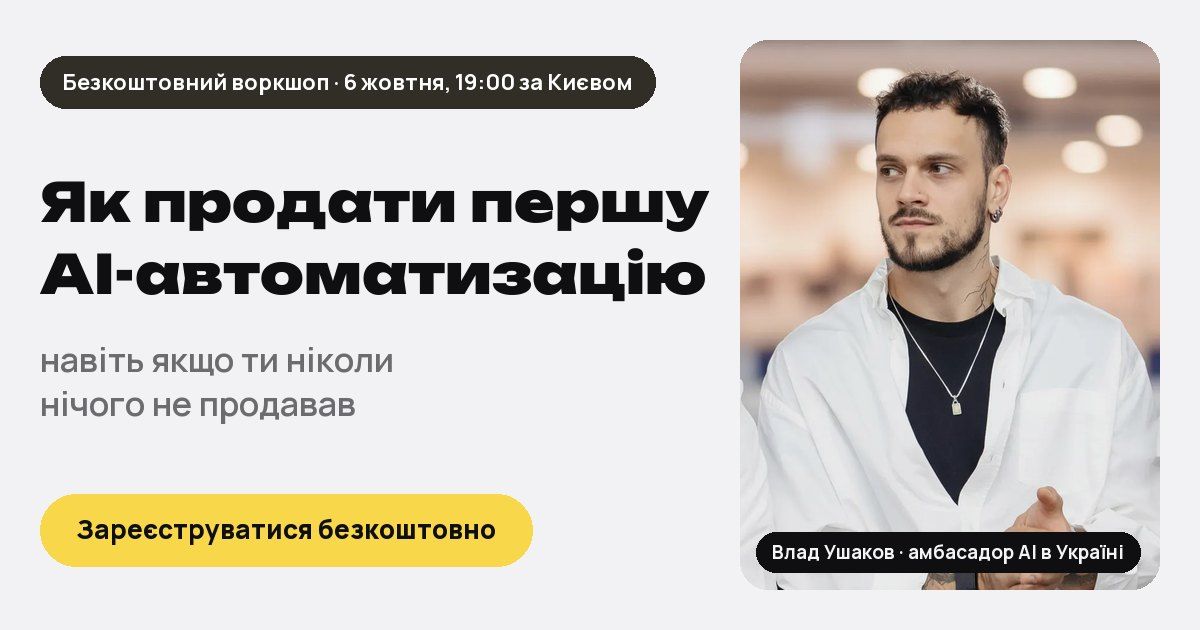
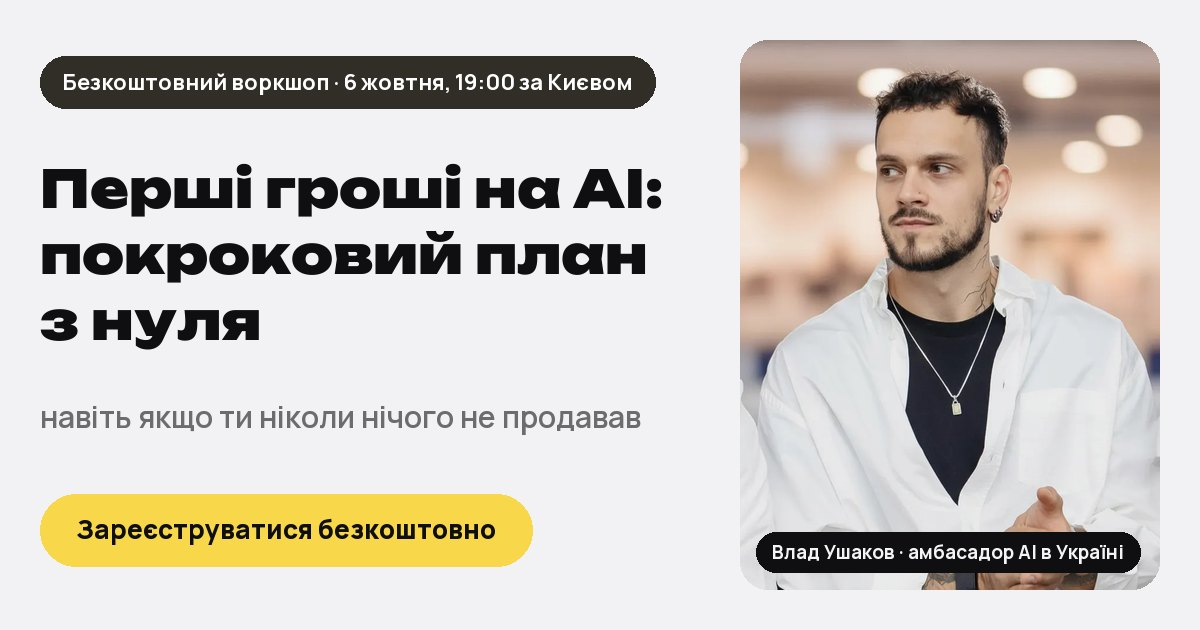
Воркшоп: новий заголовок і блок «Для кого»
Заголовок «Перші гроші на AI: покроковий план з нуля» на першому екрані,
у title, og:title і og.jpg (og:image ?v=3). «Для кого» — три нові картки
з іконками, на десктопі в один ряд.

Changed region(s): [[0.0308, 0.2413, 0.5858, 0.6032], [0.0308, 0.6333, 0.555, 0.6937]]

diff --git a/workshop/index.html b/workshop/index.html
@@ -3,16 +3,16 @@
 <head>
   <meta charset="utf-8">
   <meta name="viewport" content="width=device-width, initial-scale=1, viewport-fit=cover">
-  <title>Як продати першу AI-автоматизацію — безкоштовний воркшоп</title>
+  <title>Перші гроші на AI: покроковий план з нуля — безкоштовний воркшоп</title>
   <meta name="description" content="6 жовтня. Наживо з нуля зберу AI-аналіз дзвінків і розкажу, як мій учень продав його за 600$ без досвіду продажів.">
   <meta name="theme-color" content="#f2f2f4">
 
   <meta property="og:type" content="website">
   <meta property="og:locale" content="uk_UA">
   <meta property="og:site_name" content="AI LAB">
-  <meta property="og:title" content="Як продати першу AI-автоматизацію - безкоштовний воркшоп">
+  <meta property="og:title" content="Перші гроші на AI: покроковий план з нуля - безкоштовний воркшоп">
   <meta property="og:description" content="6 жовтня. Наживо з нуля зберу AI-аналіз дзвінків і розкажу, як мій учень продав його за 600$ без досвіду продажів.">
-  <meta property="og:image" content="https://www.ai-lab.com.ua/workshop/img/og.jpg?v=2">
+  <meta property="og:image" content="https://www.ai-lab.com.ua/workshop/img/og.jpg?v=3">
   <meta property="og:image:width" content="1200">
   <meta property="og:image:height" content="630">
   <meta name="twitter:card" content="summary_large_image">
@@ -22,8 +22,8 @@
   <link rel="preload" as="font" type="font/woff2" href="fonts/unbounded-cyrillic.woff2" crossorigin>
   <link rel="preload" as="font" type="font/woff2" href="fonts/manrope-cyrillic.woff2" crossorigin>
   <script>document.documentElement.classList.add('js');</script>
-  <link rel="stylesheet" href="style.css?v=11">
-  <script src="config.js?v=11"></script>
+  <link rel="stylesheet" href="style.css?v=13">
+  <script src="config.js?v=13"></script>
 </head>
 <body>
 
@@ -40,7 +40,7 @@
         <span class="brand__text">AI LAB</span>
       </a>
       <p class="pill hero__notice">Безкоштовний воркшоп · онлайн · 6&nbsp;жовтня, вівторок · 19:00 за&nbsp;Києвом</p>
-      <h1 class="hero__title">Як продати першу <span class="nowrap">AI-автоматизацію</span></h1>
+      <h1 class="hero__title"><span class="nowrap">Перші гроші на AI:</span> покроковий план з&nbsp;нуля</h1>
       <p class="hero__sub">навіть якщо ти ніколи нічого не продавав</p>
     </div>
 
@@ -83,33 +83,25 @@
     <ul class="who reveal" data-stagger>
       <li class="card who__item">
         <span class="icon" aria-hidden="true">
-          <!-- ноутбук і гроші -->
-          <svg viewBox="0 0 32 32"><rect x="5" y="7" width="22" height="14" rx="2"/><path d="M2.5 25h27"/><path d="M18.4 11.6c-.5-.8-1.4-1.2-2.4-1.2-1.3 0-2.4.7-2.4 1.7 0 2.3 4.8 1.2 4.8 3.5 0 1-1.1 1.7-2.4 1.7-1.1 0-2-.5-2.5-1.3M16 9.2v1.2M16 17.3v1.2"/></svg>
+          <!-- віддалено, свій графік: ноутбук і годинник -->
+          <svg viewBox="0 0 32 32"><path d="M15 21H5V9a2 2 0 012-2h14a2 2 0 012 2v3"/><path d="M2.5 25H15"/><circle cx="23" cy="21" r="6"/><path d="M23 18v3l2 1.5"/></svg>
         </span>
-        <p>Хочеш заробляти на AI, але не знаєш, як.</p>
+        <p>Хочеш працювати віддалено за своїм графіком</p>
       </li>
       <li class="card who__item">
         <span class="icon" aria-hidden="true">
-          <!-- ріст на роботі -->
-          <svg viewBox="0 0 32 32"><rect x="4" y="11" width="24" height="16" rx="2.5"/><path d="M12 11V8.5A1.5 1.5 0 0113.5 7h5A1.5 1.5 0 0120 8.5V11"/><path d="M10 22l4.5-4.5 3 3L22 16"/><path d="M18.5 16H22v3.5"/></svg>
+          <!-- стеля в доході: графік уперся в лінію -->
+          <svg viewBox="0 0 32 32"><path d="M4 9h24" stroke-dasharray="3 3"/><path d="M5 26l6-7 4 3 6-9"/><path d="M21 13l2-2.5L25 13"/><path d="M4 28h24"/></svg>
         </span>
-        <p>Хочеш вирости на поточній роботі завдяки AI</p>
+        <p>Вперся в стелю в доході й не знаєш, як його збільшити</p>
       </li>
       <li class="card who__item">
         <span class="icon" aria-hidden="true">
-          <!-- свій бізнес -->
-          <svg viewBox="0 0 32 32"><path d="M6 14v13h20V14"/><path d="M4 14l2.5-8h19l2.5 8"/><path d="M4 14a4 4 0 008 0 4 4 0 008 0 4 4 0 008 0"/><path d="M13 27v-6h6v6"/></svg>
+          <!-- найперспективніший напрямок AI: ракета -->
+          <svg viewBox="0 0 32 32"><path d="M19 5c4.5 0 8 3.5 8 8-2 4-5.5 7.5-10 9.5L9.5 15C11.5 10.5 15 7 19 5z"/><circle cx="20" cy="12" r="2.2"/><path d="M9.5 15L5 14l3.5-4.5 4.5.5"/><path d="M17 22.5l1 4.5 4.5-3.5-.5-4.5"/><path d="M9 20c-2 1-3 3.5-3 6 2.5 0 5-1 6-3"/></svg>
         </span>
-        <p>Маєш свій бізнес чи проєкт і хочеш автоматизувати задачі.</p>
+        <p>Хочеш опанувати найперспективніший напрямок AI у 2026 році</p>
       </li>
-      <li class="card who__item">
-        <span class="icon" aria-hidden="true">
-          <!-- дім і побут -->
-          <svg viewBox="0 0 32 32"><path d="M4 15L16 5l12 10"/><path d="M7 12.5V27h18V12.5"/><path d="M13 27v-7h6v7"/><path d="M22 3.5l.7 1.8 1.8.7-1.8.7-.7 1.8-.7-1.8-1.8-.7 1.8-.7z"/></svg>
-        </span>
-        <p>Хочеш спростити роботу й побут з AI</p>
-      </li>
-    </ul>
 
     <a class="btn section__btn" data-cta="audience" href="https://t.me/vladushakovai_bot?start=ws0610_web">Хочу на воркшоп</a>
   </div>
@@ -356,7 +348,7 @@
   <img alt="">
 </dialog>
 
-<script src="neural.js?v=11" defer></script>
-<script src="main.js?v=11" defer></script>
+<script src="neural.js?v=13" defer></script>
+<script src="main.js?v=13" defer></script>
 </body>
 </html>

diff --git a/workshop/style.css b/workshop/style.css
@@ -304,10 +304,10 @@ b { font-weight: 800; }
 .hero__title {
   font-family: var(--font-display);
   font-weight: 900;
-  /* «AI-автоматизацію» не переноситься і займає ~12.6em,
+  /* «Перші гроші на AI:» стоїть одним рядком і займає ~12em,
      тому розмір обмежений шириною колонки, а не вікна */
   font-size: clamp(1.75rem, 1rem + 3.6vw, 4.25rem); /* для браузерів без container queries */
-  font-size: min(clamp(1.75rem, 1rem + 3.6vw, 4.25rem), 7.8cqi);
+  font-size: min(clamp(1.75rem, 1rem + 3.6vw, 4.25rem), 8.2cqi);
   letter-spacing: -.02em;
   line-height: 1.08;
   text-wrap: balance;
@@ -871,8 +871,8 @@ b { font-weight: 800; }
 
   .bonus { grid-template-columns: 1.15fr 1fr; align-items: center; gap: clamp(1.5rem, 4vw, 3.5rem); padding: 16px clamp(1.5rem, 4vw, 3rem) 16px 16px; }
 
-  .who { grid-template-columns: 1fr 1fr; gap: 14px; }
-  .who__item { padding: 22px; font-size: 1.125rem; }
+  .who { grid-template-columns: repeat(3, 1fr); gap: 14px; }
+  .who__item { flex-direction: column; align-items: flex-start; padding: 22px; font-size: 1.125rem; }
 
   .route { max-width: 820px; }
   .route__step { padding: 0 0 30px 64px; }
